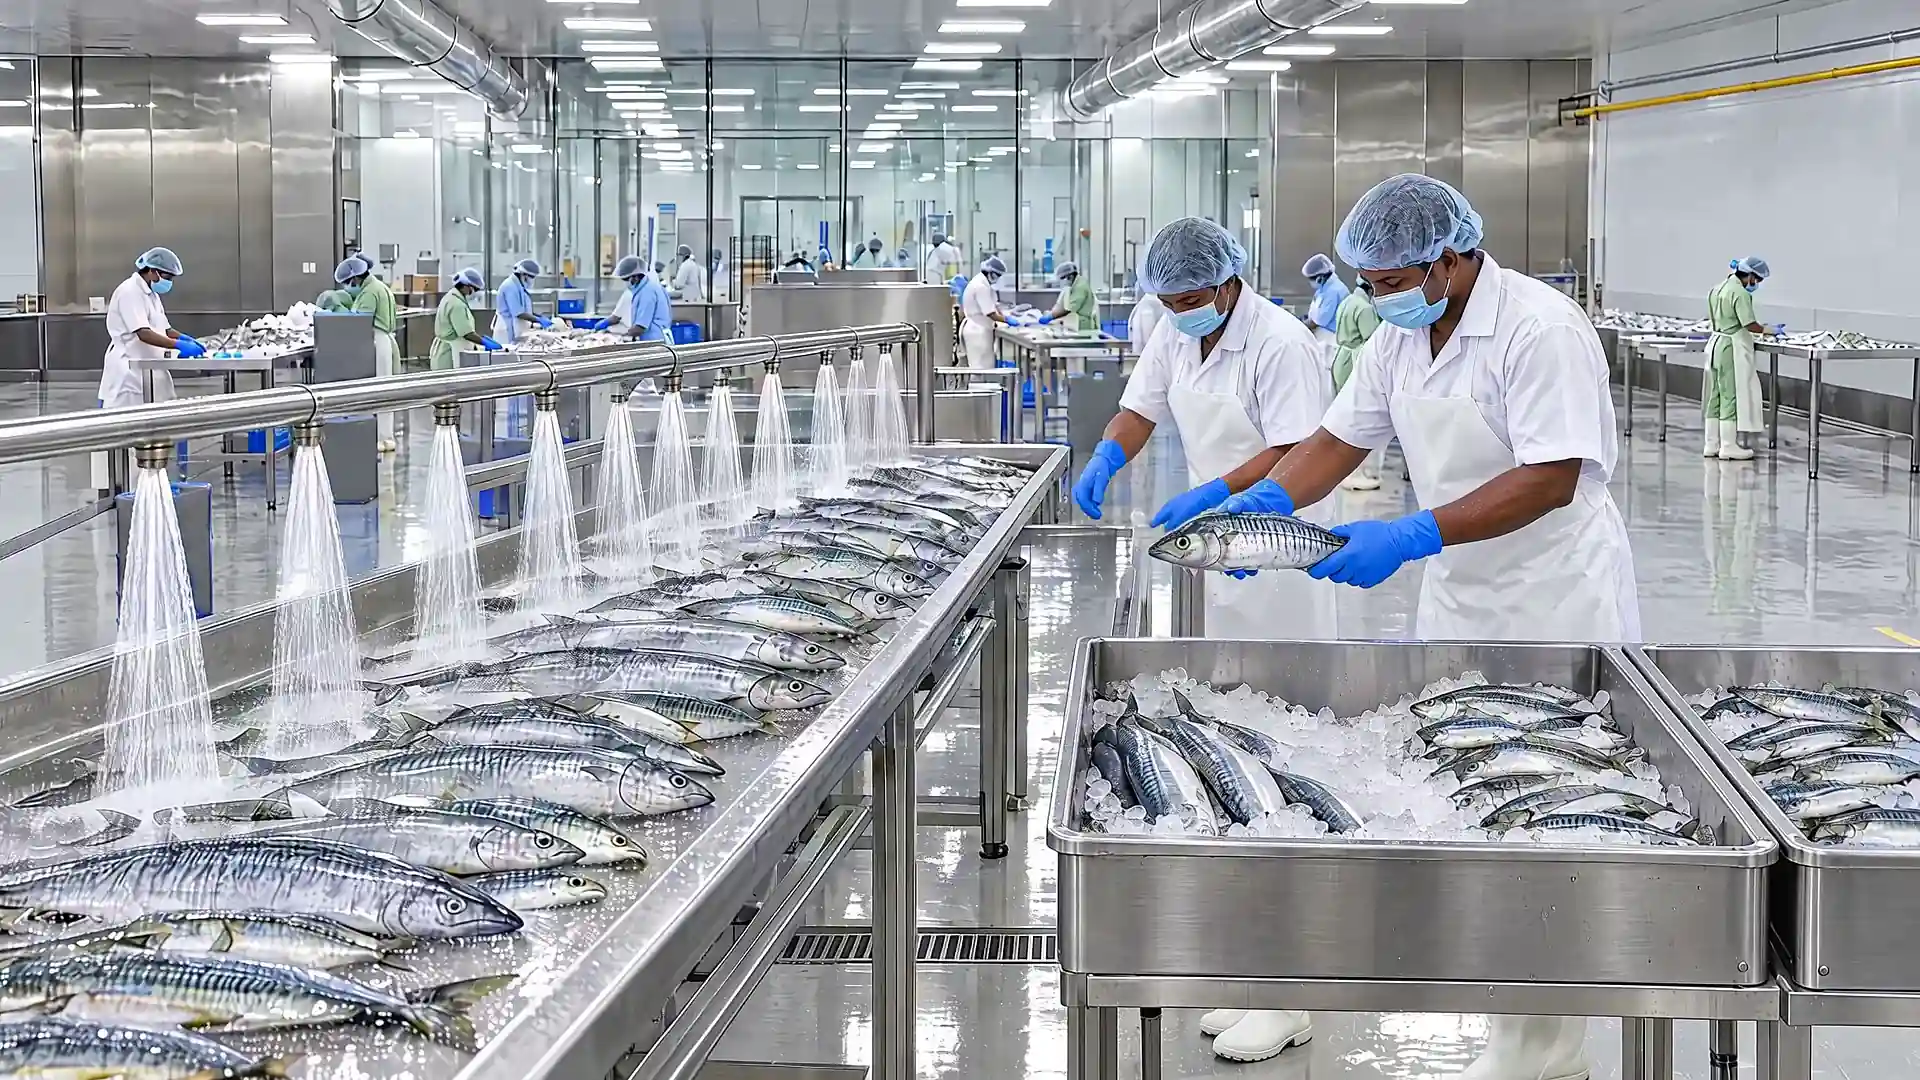
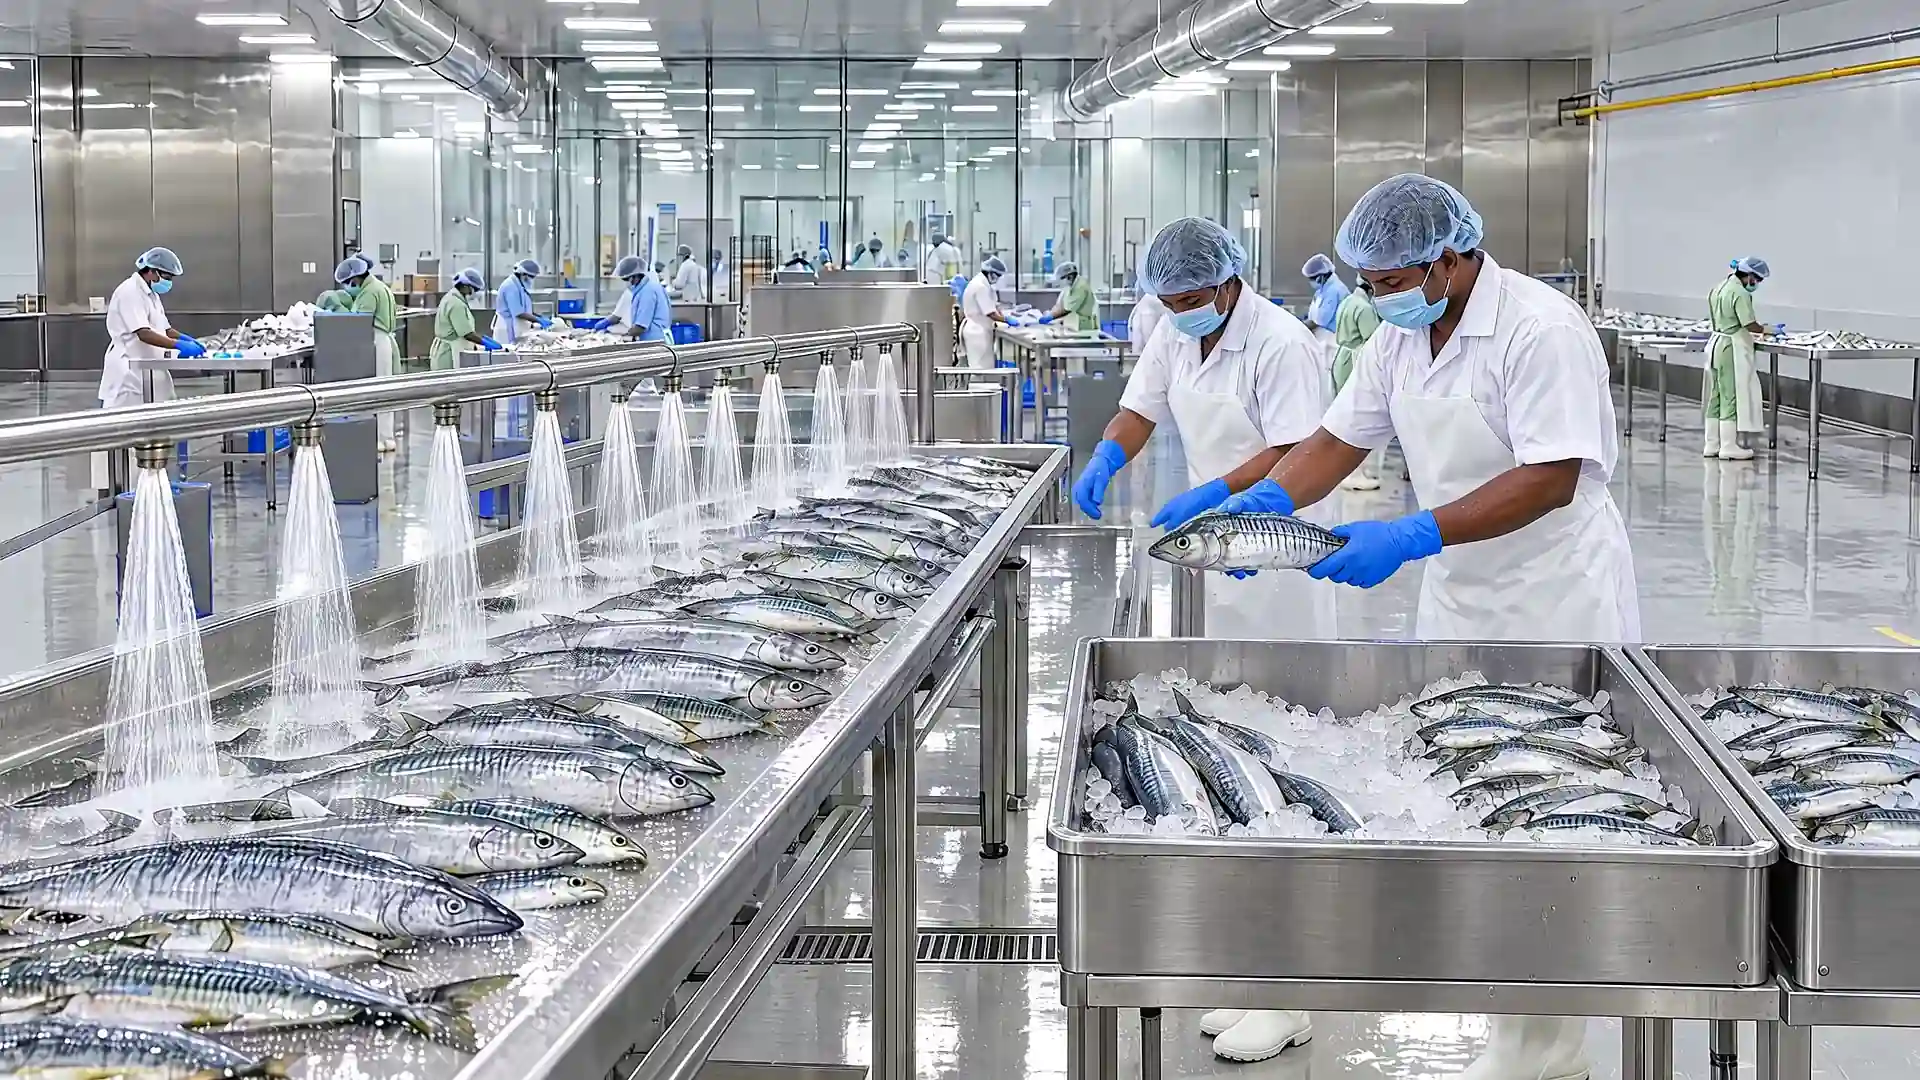
media(hf-fish-wash): first 8 WebP frames back under the 150 KB frame cap

diff --git a/src/film/manifest.ts b/src/film/manifest.ts
@@ -81,7 +81,7 @@ export const SEQ: Record<string, { frames: number; avif: number; webp: number; v
   'hf-lab': { frames: 72, avif: 2884387, webp: 5574782, v: '6b3aff80da' },
   'hf-fish-intake': { frames: 72, avif: 5964004, webp: 10598514, v: 'f76f9a3c47' },
   'hf-intake': { frames: 72, avif: 4756845, webp: 10191622, v: '992c682e38' },
-  'hf-fish-wash': { frames: 72, avif: 5216530, webp: 10844116, v: 'd1dfff4354' },
+  'hf-fish-wash': { frames: 72, avif: 5216530, webp: 10697712, v: 'f51a98d8ed' },
   'hf-store': { frames: 72, avif: 4486044, webp: 10729442, v: '6475e17d28' },
   'hf-wash': { frames: 72, avif: 6218964, webp: 10522376, v: '27f117c136' },
 }
